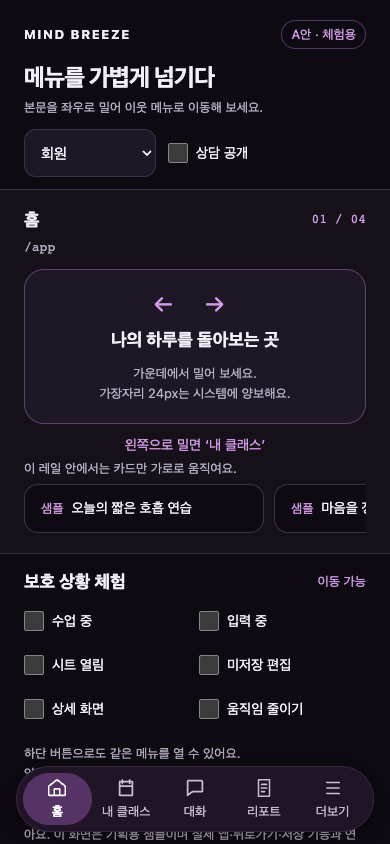
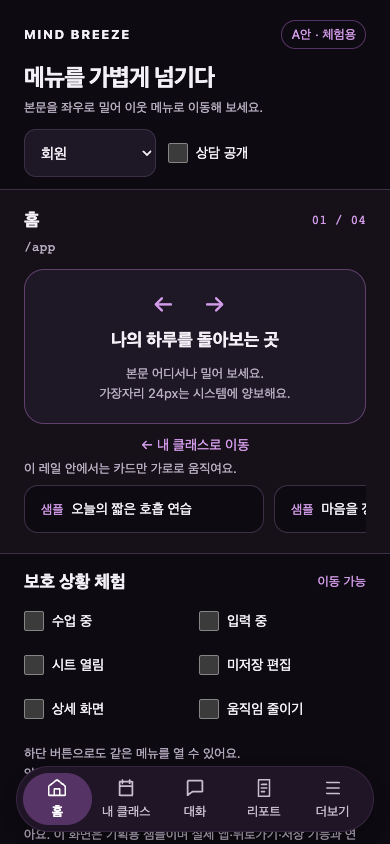
docs(sdd-240): 스와이프 시안 페이지 전환형 수정·A안 확정

diff --git a/designs/mobile-menu-swipe/index.html b/designs/mobile-menu-swipe/index.html
@@ -6,7 +6,7 @@
 <title>메뉴를 가볍게 넘기다 · MIND BREEZE</title>
 <style>
 :root{color-scheme:dark;--bg:#0e0a12;--panel:#161019;--card:#1e1726;--line:#3c3047;--ink:#f4f0f7;--muted:#b7aec2;--accent:#d29be8;--brand:#9333b8}
-*{box-sizing:border-box}body{margin:0;background:var(--bg);color:var(--ink);font:15px/1.6 Inter,-apple-system,BlinkMacSystemFont,"Apple SD Gothic Neo",sans-serif}.app{max-width:390px;margin:auto;min-height:100dvh;padding-bottom:100px}button,input,select{font:inherit}button,select{color:var(--ink);background:var(--card);border:1px solid var(--line);border-radius:12px;min-height:48px}button{cursor:pointer}button:focus-visible,select:focus-visible,input:focus-visible{outline:3px solid var(--accent);outline-offset:3px}header{padding:20px 24px 12px;display:flex;justify-content:space-between;align-items:center}.brand{font-size:13px;letter-spacing:1.6px;font-weight:700}.tag{font-size:13px;color:var(--accent);padding:3px 9px;border:1px solid #563365;border-radius:20px}h1{font-size:24px;line-height:32px;margin:0 0 4px;letter-spacing:-.6px}h2{font-size:18px;line-height:27px;margin:0}p{margin:0}.intro{padding:0 24px 12px}.muted{color:var(--muted)}.small{font-size:13px;line-height:20px}.config{display:flex;align-items:center;gap:12px;padding:0 24px 12px}select{width:132px;padding:0 12px}.check{display:flex;align-items:center;gap:8px;min-height:44px;font-size:14px;cursor:pointer}input[type=checkbox]{accent-color:var(--brand);width:20px;height:20px;margin:0;flex-shrink:0}.workspace{position:relative;overflow:hidden;border-block:1px solid var(--line);background:var(--panel)}.screen{padding:16px 24px 12px}.screen-head{display:flex;align-items:center;justify-content:space-between;gap:8px}.counter{font:13px/20px ui-monospace,monospace;color:var(--accent)}.route{font:13px/20px ui-monospace,monospace;color:var(--muted);margin:4px 0 12px}.gesture-pad{user-select:none;-webkit-user-select:none;touch-action:pan-y pinch-zoom;border:1px solid #60416e;border-radius:20px;background:var(--card);min-height:140px;padding:20px;text-align:center;display:flex;flex-direction:column;justify-content:center;gap:8px;cursor:grab}.gesture-pad:active{cursor:grabbing}.gesture-pad strong{font-size:18px}.arrows{font-size:24px;line-height:28px;letter-spacing:12px;color:var(--accent)}.feedback{min-height:24px;font-size:14px;color:var(--accent);margin-top:10px;text-align:center}.rail{display:flex;gap:10px;overflow-x:auto;scroll-snap-type:x mandatory;overscroll-behavior-x:contain;padding-bottom:8px;touch-action:auto}.rail-card{flex:0 0 240px;scroll-snap-align:start;border:1px solid var(--line);border-radius:14px;padding:12px 16px;font-size:14px;background:var(--bg)}.rail-label{font-size:13px;color:var(--muted);margin-bottom:6px}.sample{display:inline-block;font-size:13px;color:var(--accent);margin-right:8px}.guards{padding:14px 24px 0}.guard-head{display:flex;justify-content:space-between;align-items:center;margin-bottom:4px}.state{font-size:13px;color:var(--accent)}.guard-grid{display:grid;grid-template-columns:1fr 1fr;gap:0 8px}.footnote{padding:12px 24px 8px;font-size:13px;line-height:20px;color:var(--muted)}.input-wrap{padding:8px 24px}.input-wrap input{width:100%;min-height:48px;padding:8px 12px;background:var(--card);color:var(--ink);border:1px solid var(--line);border-radius:12px}.selection{padding:12px 24px;font-size:13px;color:var(--muted);user-select:text}.nav{position:fixed;bottom:calc(12px + env(safe-area-inset-bottom,0px));left:50%;transform:translateX(-50%);width:min(calc(100% - 32px),358px);height:66px;padding:6px;display:flex;background:#201427;border:1px solid #36253e;border-radius:999px;box-shadow:0 8px 32px #0006;z-index:3}.nav button{border:0;background:none;flex:1;min-width:0;min-height:52px;display:flex;flex-direction:column;align-items:center;justify-content:center;gap:2px;border-radius:999px;color:#c9becf;font-size:13px;line-height:20px}.nav button[aria-current=page]{background:#563365;color:white;font-weight:700}.nav svg{width:22px;height:22px;fill:none;stroke:currentColor;stroke-width:1.8;stroke-linecap:round;stroke-linejoin:round}.blocked .gesture-pad{border-color:var(--line)}.blocked .arrows{color:var(--muted)}dialog{background:var(--panel);color:var(--ink);border:1px solid var(--line);border-radius:20px;padding:24px;width:min(342px,calc(100% - 48px))}dialog::backdrop{background:#000b}dialog p{margin:12px 0 20px}.dialog-actions{display:flex;gap:8px}.dialog-actions button{flex:1}.primary{background:var(--brand)}[hidden]{display:none!important}.sr-only{position:absolute;width:1px;height:1px;overflow:hidden;clip-path:inset(50%)}@media(prefers-reduced-motion:reduce){*{animation:none!important;transition:none!important}}
+*{box-sizing:border-box}body{margin:0;background:var(--bg);color:var(--ink);font:15px/1.6 Inter,-apple-system,BlinkMacSystemFont,"Apple SD Gothic Neo",sans-serif}.app{max-width:390px;margin:auto;min-height:100dvh;padding-bottom:100px}button,input,select{font:inherit}button,select{color:var(--ink);background:var(--card);border:1px solid var(--line);border-radius:12px;min-height:48px}button{cursor:pointer}button:focus-visible,select:focus-visible,input:focus-visible{outline:3px solid var(--accent);outline-offset:3px}header{padding:20px 24px 12px;display:flex;justify-content:space-between;align-items:center}.brand{font-size:13px;letter-spacing:1.6px;font-weight:700}.tag{font-size:13px;color:var(--accent);padding:3px 9px;border:1px solid #563365;border-radius:20px}h1{font-size:24px;line-height:32px;margin:0 0 4px;letter-spacing:-.6px}h2{font-size:18px;line-height:27px;margin:0}p{margin:0}.intro{padding:0 24px 12px}.muted{color:var(--muted)}.small{font-size:13px;line-height:20px}.config{display:flex;align-items:center;gap:12px;padding:0 24px 12px}select{width:132px;padding:0 12px}.check{display:flex;align-items:center;gap:8px;min-height:44px;font-size:14px;cursor:pointer}input[type=checkbox]{accent-color:var(--brand);width:20px;height:20px;margin:0;flex-shrink:0}.workspace{touch-action:pan-y pinch-zoom;position:relative;overflow:hidden;border-block:1px solid var(--line);background:var(--panel)}.page-track{position:relative;will-change:transform}.screen{width:100%;padding:16px 24px 12px;background:var(--panel)}.neighbor{position:absolute;top:0;pointer-events:none;border-inline:1px solid var(--line)}.screen-head{display:flex;align-items:center;justify-content:space-between;gap:8px}.counter{font:13px/20px ui-monospace,monospace;color:var(--accent)}.route{font:13px/20px ui-monospace,monospace;color:var(--muted);margin:4px 0 12px}.gesture-pad{user-select:none;-webkit-user-select:none;touch-action:pan-y pinch-zoom;border:1px solid #60416e;border-radius:20px;background:var(--card);min-height:140px;padding:20px;text-align:center;display:flex;flex-direction:column;justify-content:center;gap:8px;cursor:grab}.gesture-pad:active{cursor:grabbing}.gesture-pad strong{font-size:18px}.arrows{font-size:24px;line-height:28px;letter-spacing:12px;color:var(--accent)}.feedback{min-height:24px;font-size:14px;color:var(--accent);margin-top:10px;text-align:center}.rail{display:flex;gap:10px;overflow-x:auto;scroll-snap-type:x mandatory;overscroll-behavior-x:contain;padding-bottom:8px;touch-action:auto}.rail-card{flex:0 0 240px;scroll-snap-align:start;border:1px solid var(--line);border-radius:14px;padding:12px 16px;font-size:14px;background:var(--bg)}.rail-label{font-size:13px;color:var(--muted);margin-bottom:6px}.sample{display:inline-block;font-size:13px;color:var(--accent);margin-right:8px}.guards{padding:14px 24px 0}.guard-head{display:flex;justify-content:space-between;align-items:center;margin-bottom:4px}.state{font-size:13px;color:var(--accent)}.guard-grid{display:grid;grid-template-columns:1fr 1fr;gap:0 8px}.footnote{padding:12px 24px 8px;font-size:13px;line-height:20px;color:var(--muted)}.input-wrap{padding:8px 24px}.input-wrap input{width:100%;min-height:48px;padding:8px 12px;background:var(--card);color:var(--ink);border:1px solid var(--line);border-radius:12px}.selection{padding:12px 24px;font-size:13px;color:var(--muted);user-select:text}.nav{position:fixed;bottom:calc(12px + env(safe-area-inset-bottom,0px));left:50%;transform:translateX(-50%);width:min(calc(100% - 32px),358px);height:66px;padding:6px;display:flex;background:#201427;border:1px solid #36253e;border-radius:999px;box-shadow:0 8px 32px #0006;z-index:3}.nav button{border:0;background:none;flex:1;min-width:0;min-height:52px;display:flex;flex-direction:column;align-items:center;justify-content:center;gap:2px;border-radius:999px;color:#c9becf;font-size:13px;line-height:20px}.nav button[aria-current=page]{background:#563365;color:white;font-weight:700}.nav svg{width:22px;height:22px;fill:none;stroke:currentColor;stroke-width:1.8;stroke-linecap:round;stroke-linejoin:round}.blocked .gesture-pad{border-color:var(--line)}.blocked .arrows{color:var(--muted)}dialog{background:var(--panel);color:var(--ink);border:1px solid var(--line);border-radius:20px;padding:24px;width:min(342px,calc(100% - 48px))}dialog::backdrop{background:#000b}dialog p{margin:12px 0 20px}.dialog-actions{display:flex;gap:8px}.dialog-actions button{flex:1}.primary{background:var(--brand)}[hidden]{display:none!important}.sr-only{position:absolute;width:1px;height:1px;overflow:hidden;clip-path:inset(50%)}@media(prefers-reduced-motion:reduce){*{animation:none!important;transition:none!important}}
 </style>
 </head>
 <body>
@@ -15,13 +15,13 @@
 <div class="intro"><h1>메뉴를 가볍게 넘기다</h1><p class="small muted">본문을 좌우로 밀어 이웃 메뉴로 이동해 보세요.</p></div>
 <div class="config" data-no-swipe><label class="sr-only" for="role">체험 역할</label><select id="role"><option value="client">회원</option><option value="counselor">상담사</option><option value="org_admin">기관관리자</option></select><label class="check"><input id="counseling" type="checkbox">상담 공개</label></div>
 <section class="workspace" id="workspace" aria-label="메뉴 이동 체험">
-<div class="screen" id="screen">
+<div class="page-track" id="page-track"><div class="screen" id="screen">
 <div class="screen-head"><h2 id="page-title" tabindex="-1">홈</h2><span class="counter" id="counter">01 / 04</span></div><p class="route" id="route">/app</p>
-<div class="gesture-pad" id="gesture-pad"><span class="arrows" aria-hidden="true">← →</span><strong id="pad-title">나의 하루를 돌아보는 곳</strong><p class="small muted" id="pad-copy">가운데에서 밀어 보세요.<br>가장자리 24px는 시스템에 양보해요.</p></div>
+<div class="gesture-pad" id="gesture-pad"><span class="arrows" aria-hidden="true">← →</span><strong id="pad-title">나의 하루를 돌아보는 곳</strong><p class="small muted" id="pad-copy">본문 어디서나 밀어 보세요.<br>가장자리 24px는 시스템에 양보해요.</p></div>
 <p class="feedback" id="feedback">왼쪽으로 밀면 ‘내 클래스’</p>
 <p class="rail-label">이 레일 안에서는 카드만 가로로 움직여요.</p>
 <div class="rail" id="rail" data-no-swipe tabindex="0" aria-label="샘플 홈 카드 가로 스크롤"><div class="rail-card"><span class="sample">샘플</span>오늘의 짧은 호흡 연습</div><div class="rail-card"><span class="sample">샘플</span>마음을 정리하는 시간</div><div class="rail-card"><span class="sample">샘플</span>다음 수업 살펴보기</div></div>
-</div></section>
+</div></div></section>
 <section class="guards" data-no-swipe aria-labelledby="guards-title"><div class="guard-head"><h2 id="guards-title">보호 상황 체험</h2><span class="state" id="state">이동 가능</span></div><div class="guard-grid">
 <label class="check"><input type="checkbox" data-guard="수업 중" id="guard-class">수업 중</label><label class="check"><input type="checkbox" data-guard="입력 중" id="guard-input">입력 중</label>
 <label class="check"><input type="checkbox" data-guard="시트 열림" id="guard-sheet">시트 열림</label><label class="check"><input type="checkbox" data-guard="미저장 편집" id="guard-dirty">미저장 편집</label>
@@ -38,7 +38,7 @@
 // 제품 코드와 연결되지 않는 A안 기획 체험. 모든 상태는 메모리에서만 유지한다.
 const $ = id => document.getElementById(id);
 const icons = ['M3 10 12 3l9 7v10H3z M9 20v-7h6v7','M5 5h14v15H5z M8 3v4 M16 3v4 M5 10h14','M4 4h16v12H9l-5 4z','M6 3h12v18H6z M9 8h6 M9 12h6 M9 16h4','M5 6h14 M5 12h14 M5 18h14'];
-let index = 0, gesture = null, busy = false, suppressClickUntil = 0, action = null;
+let index = 0, gesture = null, busy = false, suppressClickUntil = 0, action = null, motion = null, neighborIndex = null;
 const reduced = () => $('reduce').checked || matchMedia('(prefers-reduced-motion: reduce)').matches;
 function tabs() {
  const c = $('counseling').checked, role = $('role').value;
@@ -54,21 +54,60 @@ function reasons() {
  return list;
 }
 function announce(message) { $('announce').textContent = message; }
-function resetMotion(duration=120) {
- $('screen').style.transition = reduced() ? 'none' : `transform ${duration}ms ease-out`;
- $('screen').style.transform = 'none';
+const pageTitles=['나의 하루를 돌아보는 곳','함께하는 시간을 준비해요','필요한 이야기를 이어가요','나의 변화를 살펴봐요'];
+function clearMotion() {
+ motion?.cancel(); motion=null; busy=false;
+ $('page-track').style.transform='none';
+ document.querySelector('.neighbor')?.remove(); neighborIndex=null;
 }
-function cancelGesture() { gesture=null; resetMotion(); }
+function cancelGesture() {
+ gesture=null; clearMotion();
+}
+function prepareNeighbor(next) {
+ if(neighborIndex===next)return;
+ document.querySelector('.neighbor')?.remove(); neighborIndex=next;
+ if(next<0||next>=tabs().length)return;
+ const neighbor=$('screen').cloneNode(true);
+ neighbor.removeAttribute('id');neighbor.classList.add('neighbor');neighbor.inert=true;neighbor.setAttribute('aria-hidden','true');
+ neighbor.querySelector('.screen-head h2').textContent=tabs()[next][0];
+ neighbor.querySelector('.counter').textContent=`0${next+1} / 04`;
+ neighbor.querySelector('.route').textContent=tabs()[next][1];
+ neighbor.querySelector('#pad-title').textContent=pageTitles[next];
+ neighbor.querySelector('.feedback').textContent=next===3?'마지막 메뉴예요 · 오른쪽으로 돌아가세요':`왼쪽으로 밀면 ‘${tabs()[next+1][0]}’`;
+ // 복제 화면은 미리보기일 뿐이며 식별자·포커스·접근성 트리에 중복 등록하지 않는다.
+ neighbor.querySelectorAll('[id]').forEach(el=>el.removeAttribute('id'));
+ neighbor.style.left=`${next>index?100:-100}%`;
+ $('page-track').append(neighbor);
+}
+function followDrag(dx) {
+ const next=index+(dx<0?1:-1);prepareNeighbor(next);
+ const offset=next<0||next>=tabs().length?Math.sign(dx)*Math.min(32,Math.abs(dx)*.22):dx;
+ if(!reduced())$('page-track').style.transform=`translateX(${offset}px)`;
+}
+async function snap(next) {
+ const changed=next!==index;
+ if(changed)prepareNeighbor(next);
+ busy=true;
+ const target=changed?(next>index?-1:1)*$('workspace').clientWidth:0;
+ if(!reduced()) {
+  const animation=$('page-track').animate([{transform:getComputedStyle($('page-track')).transform},{transform:`translateX(${target}px)`}],{duration:changed?240:160,easing:'cubic-bezier(.2,.7,.2,1)',fill:'forwards'});
+  motion=animation;
+  try {await animation.finished;}catch{return;}
+  if(motion!==animation)return;
+ }
+ clearMotion();
+ if(changed){index=next;render(true);announce(`${tabs()[index][0]} 메뉴로 이동했어요`);}
+}
 function refreshProtection() {
  cancelGesture(); const list=reasons();
  $('workspace').classList.toggle('blocked',list.length>0);
  $('state').textContent=list.length?'스와이프 잠금':'이동 가능';
- $('pad-copy').innerHTML=list.length?'작업을 보호하고 있어요.<br>상황을 해제하면 다시 이동할 수 있어요.':'가운데에서 밀어 보세요.<br>가장자리 24px는 시스템에 양보해요.';
+ $('pad-copy').innerHTML=list.length?'작업을 보호하고 있어요.<br>상황을 해제하면 다시 이동할 수 있어요.':'본문 어디서나 밀어 보세요.<br>가장자리 24px는 시스템에 양보해요.';
  $('feedback').textContent=list.length?`${list[0]} · 메뉴 이동을 멈췄어요`:index===3?'마지막 메뉴예요 · 오른쪽으로 돌아가세요':`왼쪽으로 밀면 ‘${tabs()[index+1][0]}’`;
 }
 function render(focus=false) {
  const items=tabs(); $('page-title').textContent=items[index][0]; $('route').textContent=items[index][1]; $('counter').textContent=`0${index+1} / 04`;
- $('pad-title').textContent=['나의 하루를 돌아보는 곳','함께하는 시간을 준비해요','필요한 이야기를 이어가요','나의 변화를 살펴봐요'][index];
+ $('pad-title').textContent=pageTitles[index];
  $('nav').replaceChildren();
  [...items,['더보기','']].forEach(([label],i)=>{
   const button=document.createElement('button'); button.type='button';button.dataset.index=i;
@@ -78,24 +117,27 @@ function render(focus=false) {
  });
  refreshProtection(); if(focus) $('page-title').focus({preventScroll:true});
 }
-function move(next, source) {
- if(next===index||busy) return;
- index=next;busy=true;render(true);announce(`${tabs()[index][0]} 메뉴로 이동했어요`);
- if(!reduced()) { const animation=$('screen').animate([{opacity:.65,transform:`translateX(${source==='left'?16:-16}px)`},{opacity:1,transform:'none'}],{duration:180,easing:'ease-out'}); animation.finished.then(()=>{busy=false;}); }
- else busy=false;
+function move(next) {
+ if(next===index||busy)return;
+ gesture=null;snap(next);
 }
 function openDialog(title,copy,confirmLabel,onConfirm) {
- cancelGesture(); $('dialog-title').textContent=title;$('dialog-copy').textContent=copy;$('dialog-ok').textContent=confirmLabel;action=onConfirm;$('dialog').showModal();
+ cancelGesture(); $('dialog-title').textContent=title;$('dialog-copy').textContent=copy;$('dialog-ok').textContent=confirmLabel;action=onConfirm;$('dialog').returnValue='';$('dialog').showModal();
 }
 function requestMove(next) {
  if(next===index||busy) return;
  const protectedWork=[...document.querySelectorAll('[data-guard]:checked')].some(el=>el.id!=='guard-detail') || $('draft').value.trim();
- if(protectedWork) openDialog('작업을 마치고 이동할까요?','체험용 확인창이에요. 실제 앱에서는 수업 종료·저장·취소 확인을 거칩니다.','상황 해제 후 이동',()=>{document.querySelectorAll('[data-guard]').forEach(el=>el.checked=false);$('draft').value='';$('input-wrap').hidden=true;move(next,next>index?'left':'right');});
- else { $('guard-detail').checked=false;move(next,next>index?'left':'right'); }
+ if(protectedWork) openDialog('작업을 마치고 이동할까요?','체험용 확인창이에요. 실제 앱에서는 수업 종료·저장·취소 확인을 거칩니다.','상황 해제 후 이동',()=>{document.querySelectorAll('[data-guard]').forEach(el=>el.checked=false);$('draft').value='';$('input-wrap').hidden=true;move(next);});
+ else { $('guard-detail').checked=false;move(next); }
 }
 function showMore(){openDialog('더보기','더보기는 다섯 번째 이동 화면이 아닌 서랍입니다. 스와이프로 열리지 않아요.','닫기',()=>{});}
-$('dialog-ok').onclick=()=>{const next=action;$('dialog').close();action=null;next?.();refreshProtection();};
-$('dialog-cancel').onclick=()=>$('dialog').close();$('dialog').addEventListener('close',refreshProtection);
+$('dialog-ok').onclick=()=>$('dialog').close('confirm');
+$('dialog-cancel').onclick=()=>$('dialog').close();
+$('dialog').addEventListener('close',()=>{
+ const next=$('dialog').returnValue==='confirm'?action:null;action=null;
+ // 닫힘에 따른 보호 상태 갱신을 끝낸 뒤 새 페이지 전환을 시작한다.
+ refreshProtection();next?.();
+});
 for(const id of ['role','counseling']) $(id).addEventListener('change',()=>{index=0;render();announce('체험 메뉴 구성을 변경했어요');});
 document.querySelectorAll('[data-guard],#reduce').forEach(el=>el.addEventListener('change',()=>{$('input-wrap').hidden=!$('guard-input').checked;refreshProtection();}));
 $('draft').addEventListener('input',refreshProtection);$('draft').addEventListener('focus',refreshProtection);$('draft').addEventListener('blur',refreshProtection);
@@ -109,8 +151,7 @@ workspace.addEventListener('pointerdown',e=>{
  if(e.target.closest('[data-no-swipe],button,a,input,select,textarea'))return;
  if(reasons().length){refreshProtection();return;}
  gesture={id:e.pointerId,x:e.clientX,y:e.clientY,start:e.timeStamp,axis:null,samples:[{x:e.clientX,t:e.timeStamp}]};
- // 포인터 캡처는 선택 가능한 일반 텍스트를 제외한 체험 패드에서만 사용한다.
- if(e.target.closest('#gesture-pad'))workspace.setPointerCapture(e.pointerId);
+ // 방향 잠금 후 캡처해 본문 밖으로 손가락이 나가도 전환을 마무리한다.
 });
 workspace.addEventListener('pointermove',e=>{
  if(!gesture||gesture.id!==e.pointerId)return;
@@ -118,11 +159,11 @@ workspace.addEventListener('pointermove',e=>{
  gesture.samples.push({x:e.clientX,t:e.timeStamp});gesture.samples=gesture.samples.filter(s=>e.timeStamp-s.t<=80);
  if(gesture.axis===null && Math.hypot(dx,dy)>=12){
   if(e.timeStamp-gesture.start>500 || Math.abs(dx)<1.5*Math.abs(dy)){cancelGesture();return;}
-  gesture.axis='x';
+  gesture.axis='x';workspace.setPointerCapture(e.pointerId);
  }
  if(gesture.axis==='x'){
   const next=index+(dx<0?1:-1);$('feedback').textContent=next<0?'첫 메뉴예요':next>3?'마지막 메뉴예요':`${dx<0?'←':'→'} ${tabs()[next][0]}로 이동`;
-  if(!reduced()&&next>=0&&next<=3){$('screen').style.transition='none';$('screen').style.transform=`translateX(${Math.max(-32,Math.min(32,dx*.25))}px)`;}
+  followDrag(dx);
  }
 });
 workspace.addEventListener('pointerup',e=>{
@@ -133,13 +174,13 @@ workspace.addEventListener('pointerup',e=>{
  const first=samples[0],dt=first?e.timeStamp-first.t:0,velocity=dt>=16?(e.clientX-first.x)/dt:0;
  const horizontal=current.axis==='x'&&Math.abs(dx)>=1.5*Math.abs(dy);
  const complete=Math.abs(dx)>=Math.max(64,workspace.clientWidth*.2)||(Math.abs(dx)>=40&&Math.abs(velocity)>=.5&&Math.sign(velocity)===Math.sign(dx));
- const next=index+(dx<0?1:-1);resetMotion();
+ const next=index+(dx<0?1:-1);
  if(current.axis==='x')suppressClickUntil=performance.now()+350;
- if(horizontal&&complete&&!reasons().length&&next>=0&&next<=3)move(next,dx<0?'left':'right');
- else {$('feedback').textContent=next<0?'첫 메뉴예요 · 여기서 멈춰요':next>3?'마지막 메뉴예요 · 더보기는 눌러 주세요':'이동하지 않았어요 · 조금 더 길게 밀어 보세요';}
+ if(horizontal&&complete&&!reasons().length&&next>=0&&next<=3)move(next);
+ else {snap(index);$('feedback').textContent=next<0?'첫 메뉴예요 · 여기서 멈춰요':next>3?'마지막 메뉴예요 · 더보기는 눌러 주세요':'이동하지 않았어요 · 조금 더 길게 밀어 보세요';}
 });
 workspace.addEventListener('click',e=>{if(performance.now()<suppressClickUntil){e.preventDefault();e.stopPropagation();}},true);
-workspace.addEventListener('pointercancel',cancelGesture);workspace.addEventListener('lostpointercapture',cancelGesture);
+workspace.addEventListener('pointercancel',cancelGesture);workspace.addEventListener('lostpointercapture',e=>{if(e.target===workspace&&gesture)cancelGesture();});
 document.addEventListener('pointerdown',e=>{if(!e.isPrimary)cancelGesture();},true);
 window.addEventListener('blur',cancelGesture);window.addEventListener('resize',cancelGesture);document.addEventListener('visibilitychange',cancelGesture);
 render();

diff --git a/specs/sdd-240-mobile-menu-swipe/spec.md b/specs/sdd-240-mobile-menu-swipe/spec.md
@@ -1,6 +1,6 @@
 # SDD-240 — 모바일 메뉴 좌우 스와이프 이동
 
-- 상태: Stage ① Spec 확정본 — Brian 의사결정 대기 (구현 승인 아님)
+- 상태: Stage ① Spec — 2026-10-24 Brian A안(메뉴 좌우 이동) 확정 · 시안 수정 승인 (제품 구현 승인 아님)
 - 브랜치: `sdd/240-mobile-menu-swipe`
 - 작성일: 2026-10-24 · 코드 조사 기준: `c84d7660`
 - 요청: “아이폰에서 메뉴 좌우 스와이프 … 기획서만 먼저”, “안드로이드도 확인해서 알려줘.”
@@ -8,9 +8,9 @@
 
 ## 1. 문제와 목표
 
-현재 모바일 하단 메뉴는 눌러서 이동한다. 대표님의 ‘좌우 스와이프’는 **A: 이웃 메뉴로 이동** 또는 **B: 직전 화면으로 뒤로가기**를 뜻할 수 있다. 둘은 목적지·출발 영역·이력 처리 방식이 다르다. 사용자가 클래스·리포트·대화 사이를 쉽게 오가되 수업·입력·가로 콘텐츠 조작 중 뜻하지 않게 이탈하지 않는 것이 목표다.
+현재 모바일 하단 메뉴는 눌러서 이동한다. **2026-10-24 대표님 피드백 “A 방식(메뉴 좌우 이동)이 좋다”에 따라 A: 이웃 메뉴로 이동을 확정했다.** B: 직전 화면으로 뒤로가기는 별도 후속 후보로 남긴다. 둘은 목적지·출발 영역·이력 처리 방식이 다르다. 사용자가 클래스·리포트·대화 사이를 쉽게 오가되 수업·입력·가로 콘텐츠 조작 중 뜻하지 않게 이탈하지 않는 것이 목표다.
 
-**추천: A를 우선 제공하고 B는 별도 후속 범위로 승인받는다.** A는 iOS·Android·모바일 웹의 공통 경험으로 제공한다. B는 iOS 네이티브 뒤로가기 및 Android 시스템 뒤로가기의 이탈 보호 정합성까지 함께 다루어야 한다. A만으로 ‘아이폰 표준 뒤로가기’가 해결된다고 안내하지 않는다. 아래 수치는 설계 제안이며 실기기 검증값이 아니다.
+**확정: A를 우선하며 B는 별도 후속 범위로 승인받는다.** A는 iOS·Android·모바일 웹의 공통 경험으로 제공한다. B는 iOS 네이티브 뒤로가기 및 Android 시스템 뒤로가기의 이탈 보호 정합성까지 함께 다루어야 한다. A만으로 ‘아이폰 표준 뒤로가기’가 해결된다고 안내하지 않는다. 아래 수치는 설계 제안이며 실기기 검증값이 아니다.
 
 ## 2. 현행 근거
 
@@ -117,9 +117,9 @@ rg -n 'backButton|disableBackButtonHandler|allowsBackForwardNavigationGestures|O
 - [Android 16 predictive back](https://developer.android.com/about/versions/16/behavior-changes-16#predictive-back)은 OS 뒤로가기 규칙이다. A로 재해석하거나 웹 자체 edge 동작을 덧씌우지 않는다.
 - 기존 pill의 더보기 액션·탭별 스택 미보유·push 이력은 native 탭 관례와 다른 **현행 계약**이다. 이번 A에서 이를 개편하지 않으며 ‘HIG/Material 완전 준수’라고 표기하지 않는다.
 
-**추천: 제한된 A를 먼저, B는 별도 후속.** ‘주요 메뉴 이동’을 먼저 해결한다는 가정이다. A는 양 플랫폼 공통 효용이 있지만 플랫폼 표준이 아니므로 루트의 비충돌 영역에서만 보조 동작으로 제공한다. 390px 프로토타입으로 방향·끝 동작·보호 정책을 먼저 판단하고, 실제 홈 레일이 많은 화면에서 쓸 수 있는 영역과 오동작률은 구현 승인 후 실기기로 검증한다. 수업/입력에서 우발 이탈이 한 번이라도 재현되면 출시하지 않는다. 의도가 ‘상세에서 이전 화면’이면 가치가 다른 B를 우선하고 A는 보류한다. Brian이 아직 이 추천을 승인한 것은 아니다.
+**10/24 확정: 제한된 A를 먼저, B는 별도 후속.** ‘주요 메뉴 이동’을 먼저 해결한다는 가정이다. A는 양 플랫폼 공통 효용이 있지만 플랫폼 표준이 아니므로 루트의 비충돌 영역에서만 보조 동작으로 제공한다. 390px 프로토타입으로 방향·끝 동작·보호 정책을 먼저 판단하고, 실제 홈 레일이 많은 화면에서 쓸 수 있는 영역과 오동작률은 구현 승인 후 실기기로 검증한다. 수업/입력에서 우발 이탈이 한 번이라도 재현되면 출시하지 않는다. 2026-10-24 Brian이 A안을 확정했으며, 이번 승인은 독립 HTML 시안 수정 범위다. 제품 구현은 별도 승인 대상이다.
 
-## 4. 제스처 규칙 제안
+## 4. A안 확정 제스처 규칙 (2026-10-24)
 
 ### 4.1 A — 메뉴 이동
 
@@ -129,7 +129,8 @@ rg -n 'backButton|disableBackButtonHandler|allowsBackForwardNavigationGestures|O
 - 인식: 한 손가락. 누른 뒤 500ms 이내에 12px 이상 움직인 경우에만 후보를 시작한다(그 전 길게 누르기는 텍스트 선택 우선). 이후 `|dx| ≥ 1.5 × |dy|`면 수평 후보. 세로 방향이 먼저 확정되면 손을 뗄 때까지 A 금지. 12px 이후 수평 우세를 만족하지 않으면 해당 입력은 세로/대각 동작으로 넘기고 손을 뗄 때까지 재획득하지 않는다. 세로 스크롤/핀치 확대·텍스트 선택 방해 금지. 버튼·링크·입력·선택 컨트롤 안에서 시작해도 A를 인식하지 않는다.
 - 완료: 손을 뗄 때 `|dx| ≥ max(64px, 본문 너비×0.20)` 또는 `|dx| ≥ 40px`이면서 최근 80ms 내 최소 2개 샘플·최소 16ms 간격의 수평 평균 속도 ≥0.5px/ms이며 최종 이동 방향과 속도 방향이 같아야 한다. 본문 너비는 패딩을 빼기 전 인식 컨테이너 폭이다. 390px이면 거리 기준 78px. 수평 비율 조건도 최종 충족해야 한다. 속도 샘플이 부족하면 거리만 사용한다.
 - 취소: 임계 미달, pointercancel, 두 번째 손가락, 창 비활성, 화면 회전, 도중 금지 상태로 전환 시 원위치. 자동 이동·중복 클릭 없음. 종료 후 잔여 click을 메뉴/카드 클릭으로 실행하지 않음.
-- 피드백: 후보 확정 뒤 이동 방향과 목적 탭 이름을 표시하고 현재 패널을 최대 32px만 따라 움직임. 완료 시 180ms ease-out 전환, 취소 시 120ms 복귀. 다음 화면 데이터를 미리 조작하거나 실제 다음 페이지를 드래그 중 열지 않는다. 끝에서는 이동 불가 안내만 표시, 진동·튕김 없음.
+- 피드백: 수평 방향 잠금 뒤 현재 메뉴 화면이 손가락의 전체 이동량을 **1:1로 추종**하고, 이동 방향의 이웃 메뉴 화면이 옆에서 함께 들어온다. 임계값을 넘기면 240ms 스냅 전환 후 메뉴·하단 탭 강조·접근성 안내를 함께 갱신한다. 미달이면 160ms로 원위치 복귀한다. 첫/마지막에서는 이동량의 22%, 최대 32px 저항만 제공하고 순환·더보기 자동 진입은 없다. 움직임 줄이기는 추종·전환 애니메이션 없이 완료 판정과 메뉴 이동만 유지한다. 드래그 중 이웃 화면은 비활성·접근성 트리 제외 미리보기이며 실제 라우트·데이터 변경은 완료 후 한 번만 처리한다.
+- 브라우저 제어: 패드만이 아니라 **본문 인식 컨테이너 전체에 `touch-action: pan-y pinch-zoom`**을 적용한다. 처음 12px에서 방향 잠금 후 수평 입력만 pointer capture하며, 원래 터치 대상에서 capture가 넘어올 때 발생하는 `lostpointercapture`는 실제 컨테이너 캡처 상실과 구분한다. `pointercancel`·다중 터치 등 취소 시 잔여 전환 없이 원위치로 돌린다. 가로 레일은 독립 스크롤 컨테이너와 `data-no-swipe`를 유지하며 레일 위 터치는 레일만 스크롤한다.
 - 이동은 기존 탭 클릭과 동일한 권한·라우트 가드·이력 정책을 따른다. 현행 Link와 같이 한 번 push하며 추가 이력 중복 생성 금지. 탭별 스택/스크롤 기억 신설 없음. 돌아온 목록의 복원은 기존 정책 유지. 반복 스와이프 이력도 시스템 back으로 역순 이동한다.
 - 쿼리/필터는 현재 화면의 상태로 취급하고 목적지는 탭의 기존 루트 URL. 경로 끝 `/`만 정규화, 상세 경로를 prefix로 허용하지 않는다. 전환 중 추가 제스처는 무시하고 전환 종료 후 다시 시작한다.
 - 역할·기능 플래그로 화면에 실제 렌더된 4개 메뉴가 순서의 유일한 기준이다. 숨은 상담·AI·플랫폼관리자 메뉴를 생성하지 않는다.
@@ -185,9 +186,9 @@ rg -n 'backButton|disableBackButtonHandler|allowsBackForwardNavigationGestures|O
 
 ## 8. 범위 밖과 검증 수준
 
-제품 코드 수정, plan/verify/summary 작성, SDD 전체 완료 처리, 앱 빌드·업로드, 서버·DB·환경 설정, PR·머지·develop push·배포는 이번 범위 밖이다. 플랫폼관리자 메뉴 확대, 탭별 독립 스택, 고급 화면 미리보기·햅틱, EEG/리포트 내용 변경도 제안 범위 밖이다.
+제품 코드 수정, plan/verify/summary 작성, SDD 전체 완료 처리, 앱 빌드·업로드, 서버·DB·환경 설정, PR·머지·develop push·배포는 이번 범위 밖이다. 플랫폼관리자 메뉴 확대, 탭별 독립 스택, 실데이터 선조회·햅틱, EEG/리포트 내용 변경도 제안 범위 밖이다.
 
-프로토타입은 **A 추천안만** 체험하는 390px 설명용 샘플이다. 역할/상담 공개 전환, 수업·입력·시트·미저장·상세 상황 토글, 레일 스크롤·선택 영역 제외, 버튼 대체 이동을 제공한다. 요구된 마우스 드래그는 데모 편의를 위한 예외이며 제품 A는 모바일 터치만 대상이다. B는 구현하지 않고 Spec 비교표에서 검토한다. 실제 native 설정·시스템 back·predictive back·API·권한·라우터·실기기 성능의 증거가 아니다. 데이터는 모두 샘플이며 실제 회원 정보·EEG 점수는 사용하지 않는다.
+프로토타입은 **확정된 A안만** 체험하는 390px 설명용 샘플이다. 역할/상담 공개 전환, 수업·입력·시트·미저장·상세 상황 토글, 레일 스크롤·선택 영역 제외, 버튼 대체 이동을 제공한다. 요구된 마우스 드래그는 데모 편의를 위한 예외이며 제품 A는 모바일 터치만 대상이다. B는 구현하지 않고 Spec 비교표에서 검토한다. 실제 native 설정·시스템 back·predictive back·API·권한·라우터·실기기 성능의 증거가 아니다. 데이터는 모두 샘플이며 실제 회원 정보·EEG 점수는 사용하지 않는다.
 
 ## 9. 릴리즈 경로 (향후 승인 시)
 
@@ -202,20 +203,22 @@ rg -n 'backButton|disableBackButtonHandler|allowsBackForwardNavigationGestures|O
 
 ## 10. Brian 결정 항목 (비즈니스 관점)
 
-1. **우선 해결할 경험:** 추천 A(주요 메뉴 탐색) 먼저 / B(상세에서 뒤로가기) 먼저 / A+B 동시. 동시는 검증 범위·출시 소요가 늘어난다.
+1. **2026-10-24 확정:** A(주요 메뉴 좌우 탐색). “화면 스크롤처럼 작동한다”는 피드백을 반영해 1:1 추종·이웃 화면·스냅 전환형 시안으로 수정한다. B는 이번 범위에서 제외한다.
 2. **첫 제공 대상:** 추천 상담사·회원·기관관리자 및 iOS·Android·모바일 웹 동시 / 일부 역할·플랫폼부터. 일부만이면 교육 안내가 달라진다.
 3. **보호 우선 원칙:** 추천 수업·입력·미저장 상태에서는 제스처보다 작업 보전을 우선하고 버튼으로 명시적 이탈. 편의 때문에 보호 예외를 늘리지 않는다.
 
-미결 항목은 위 세 가지이며 임계값·이벤트 방식·검증 방법은 기술 담당자가 책임지고 조정한다. 이번 Spec 커밋·푸시는 기획 전달이며 구현 승인으로 해석하지 않는다.
+A안 방향은 확정됐으며 첫 제공 대상·보호 정책의 제품 적용 승인은 후속 단계다. 임계값·이벤트 방식·검증 방법은 기술 담당자가 책임지고 조정한다. 이번 Spec 커밋·푸시는 기획 전달이며 구현 승인으로 해석하지 않는다.
 
 ## 11. 초안 독립 검토 결과
 
 - 유지: A/B 의미 분리, A 제한 도입 추천, 더보기 제외, 루트 허용 목록, 앱 번들 재배포 필요, 네이티브 실측과 코드 근거 구분.
 - 수정: SDK 36의 Android 16 predictive back 기본 정책 명시; App 8.1.2 callback의 이력 없는 경우를 근거로 ‘루트에서 앱 복귀 보장’ 제거.
 - 보강: 플랫폼관리자 현행 탭까지 기록하되 A 대상 제외; Material bottom navigation과 tabs 구분 및 관례 차이 명시; 채팅 IME·텍스트 선택·전체 가로 overflow 위치와 실제 드래그 없는 시트 구분.
-- 구체화: 길게 누르기·속도 방향·샘플 최소 기간·대각 취소, 릴리즈 버전 관리, 프로토타입 실제 범위(A만) 및 검증 한계.
+- 구체화: 길게 누르기·속도 방향·샘플 최소 기간·대각 취소, 릴리즈 버전 관리, 프로토타입 실제 범위(확정 A만) 및 검증 한계.
 
 ## 12. 기획 산출물 확인 기록
+
+### 12.1 최초 시안 (07fcd35c 기준 과거 기록)
 
 - 제품 구현 수용 기준(§7)은 **미실행**이다. 아래 브라우저 확인은 독립 HTML에만 해당한다.
 - 산출물: `designs/mobile-menu-swipe/index.html`, `designs/mobile-menu-swipe/capture.cjs`, 같은 디렉토리의 `captures/` 및 `capture-results.json`.
@@ -233,3 +236,16 @@ rg -n 'backButton|disableBackButtonHandler|allowsBackForwardNavigationGestures|O
 | [03-protected-class-390.png](../../designs/mobile-menu-swipe/captures/03-protected-class-390.png) | 수업 중 토글 후 드래그해도 홈 유지 |
 
 [HTML 체험 열기](../../designs/mobile-menu-swipe/index.html) · [브라우저 확인 결과](../../designs/mobile-menu-swipe/capture-results.json)
+
+
+### 12.2 10/24 A안 확정·페이지 전환형 시안 검증
+
+- 범위: 독립 HTML·캡처 스크립트·결과·본 Spec만 수정. 제품 코드·제품 SDD 단계·PR·배포는 진행하지 않는다.
+- 수정 전 실제 Chrome 터치 재현: 패드 안 `(270,300) → (150,300)`에서 손가락 -120px 대비 화면 -30px. 패드 밖 `(270,200)`에서 수평 이동 시 `pointerdown → pointermove → pointercancel`, 손을 뗀 뒤에도 `/app` 유지. 컨테이너 계산 스타일은 `touch-action:auto`였다. 기존 완료 효과 역시 opacity + 16px 페이드였으므로 이웃 페이지가 들어오지 않았다.
+- 회귀 검증을 수정 전에 추가해 “패드 밖 터치 120px에 화면 1:1 추종”이 실제 0px로 실패하는 것을 확인한 뒤 시안을 수정했다.
+- 가로 레일의 자체 스크롤은 결함이 아니라 의도한 제외 동작이다. 메뉴 전환 영역과 구별하고 레일 끝에서도 메뉴 전환을 넘겨받지 않는다.
+- 재현 명령: `node designs/mobile-menu-swipe/capture.cjs`. Chrome 155.0.8059.85, `hasTouch:true`, `isMobile:true`, 390×844. WebKit은 Playwright 실행 파일이 설치되어 있지 않아 미실행. iPhone Safari/실기기 동작 확인으로 표현하지 않는다.
+- **최신 54개 확인 통과, JS 실행 오류 0건.** 실제 터치의 패드 밖 좌/우 이동·하단 강조·짧은 복귀·세로 스크롤 증가·레일 자체 스크롤·수업 중 차단과 기존 보호/역할/움직임 줄이기를 확인했다. 가로 넘침 0px, 12px 이하 표시 글자 0개, 하단 버튼 약 68.8×52px. 캡처 4장을 직접 열어 확인했다.
+- 독립 검토자는 12px 미만 정지·120px 추종·이웃 화면·완료·짧은 복귀·끝 저항·레일·움직임 줄이기를 별도 Chrome 입력으로 확인했다. 검토 중 발견한 보호 확인 후 전환 취소 회귀는 실패 테스트를 추가한 뒤 dialog 닫힘/보호 갱신 완료 후 이동하도록 수정했다. 독립 재검증에서 확인 후 목적지 도착·취소·재열기 후 Escape와 실행 오류 0건을 확인했다.
+- 최신 실행 결과와 확인 목록: [capture-results.json](../../designs/mobile-menu-swipe/capture-results.json). 수정 전 관찰값도 `baseline`에 기록한다. 이전 §12.1의 43개는 과거 기록이며 최신 실행과 구분한다.
+- 추가 캡처: [04-mid-drag-pages-390.png](../../designs/mobile-menu-swipe/captures/04-mid-drag-pages-390.png) — 손가락 120px 이동 중 홈과 내 클래스가 함께 보이는 상태. 기존 01~03 캡처도 갱신한다.
